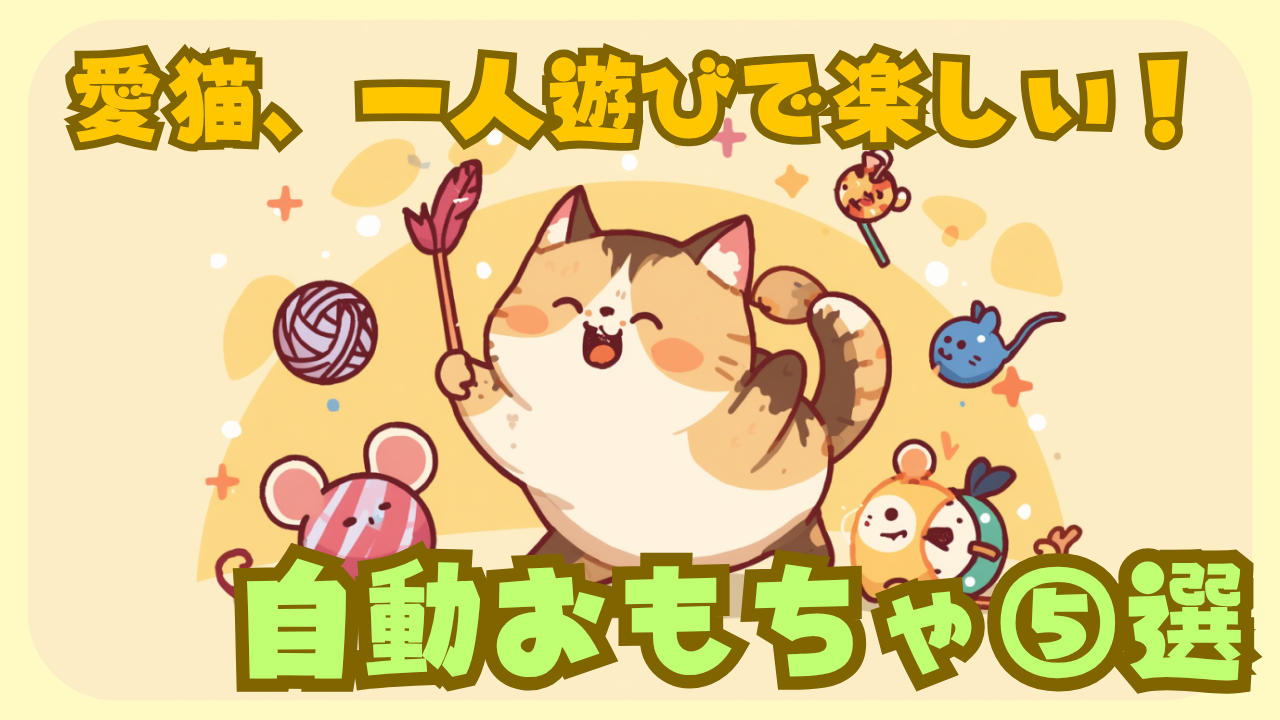
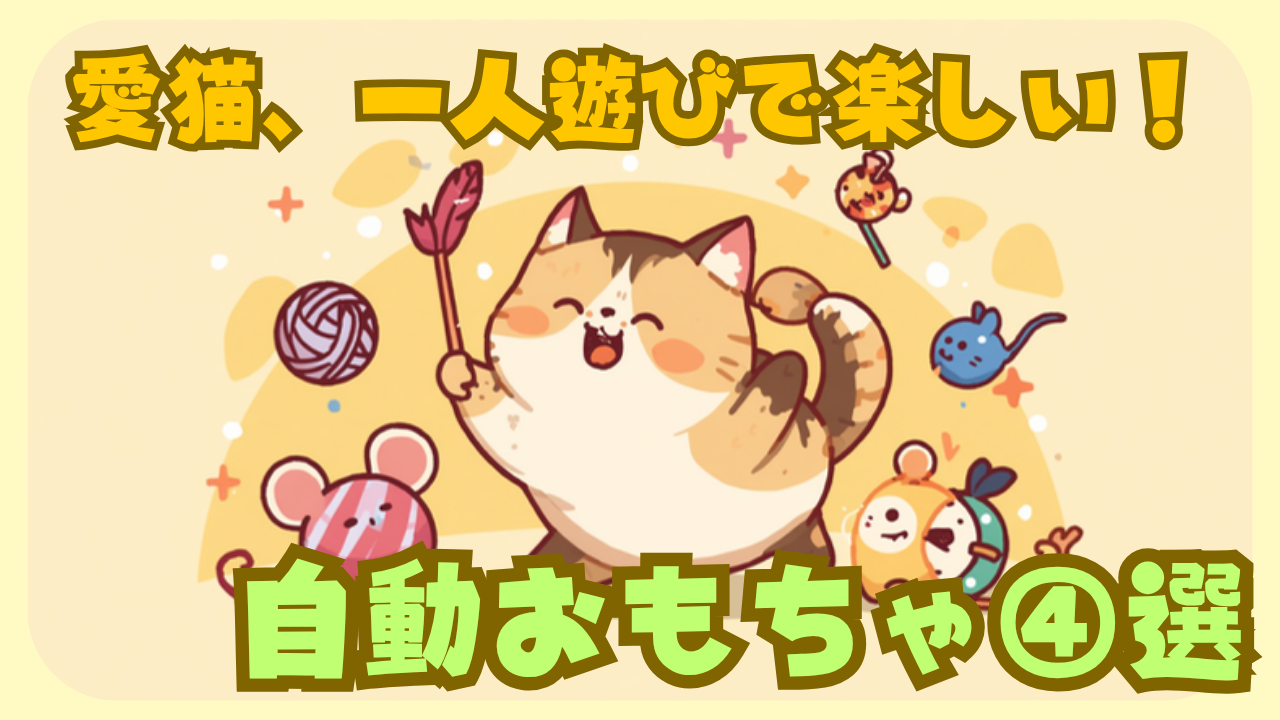
#2おもちゃ記事をリライト（5選→4選・a_id修正・うちの猫フィルター追加）
- アフィリのa_idが全てケガネコだったのでズボラ猫に差し替え
- 掲載していた5商品のうち3つが消滅／別商品化していたため入れ替え
  ・BENTOPAL P33 → 電池式のP02しか無く、①猫壱と★が重複するため章ごと削除
  ・吊り下げ式 → 自動レーザーポインターに変更
  ・自動UFO → DEER-AFFLUX に変更
- 5選→4選に変更（記事内7箇所＋他記事のリンク文言6箇所）
- 「うちの猫フィルター」を全商品に追加（吹き出し4個・キャラ登場8回）
  ・①猫壱＝省エネのまお君向き（寝たまま遊べる）
  ・②UFO＝走るらびちゃん向きだが廊下の水飲み場が障害物
  ・③レーザー＝足を怪我中のまお君には向かないと正直に明記
  ・④にゃんクルル＝自動給餌器と同じ「勝手に止まる」信頼
- まとめを「うちが買うなら④のにゃんクルル」で断言する形に変更
- 冒頭を「2匹のうち1匹」→「まお君」に修正
- 内部リンクを2本追加（#30水分補給・#5自動給餌器）
- アイキャッチを4選版に差し替え

diff --git a/content/posts/cat-ignored-toys.md b/content/posts/cat-ignored-toys.md
@@ -121,7 +121,7 @@ cover:
 
 ズボラ猫飼いが実際に使ってよかった一人遊びおもちゃはこちら👇
 
-👉 [猫の一人遊びおもちゃ5選【留守中も退屈させない自動グッズ】](/posts/cat-solo-play-toys/)
+👉 [猫の一人遊びおもちゃ4選【留守中も退屈させない自動グッズ】](/posts/cat-solo-play-toys/)
 
 ---
 
@@ -162,7 +162,7 @@ cover:
 
 ズボラ目線でまとめたおすすめはこちら👇
 
-👉 [猫の一人遊びおもちゃ5選【留守中も退屈させない自動グッズ】](/posts/cat-solo-play-toys/)
+👉 [猫の一人遊びおもちゃ4選【留守中も退屈させない自動グッズ】](/posts/cat-solo-play-toys/)
 
 ---
 

diff --git a/content/posts/cat-preparing-checklist.md b/content/posts/cat-preparing-checklist.md
@@ -127,7 +127,7 @@ cover:
 
 一人暮らしで留守が多い場合、猫が一人で遊べるおもちゃがあると運動不足・ストレス対策になります。
 
-👉 [愛猫、一人遊びで楽しい！【自動おもちゃ5選】](/posts/cat-solo-play-toys/)
+👉 [愛猫、一人遊びで楽しい！【自動おもちゃ4選】](/posts/cat-solo-play-toys/)
 
 「買ったのに全然遊ばない…」という失敗を避けたい方はこちらも先に読んでみて👇
 

diff --git a/content/posts/cat-play-guilty.md b/content/posts/cat-play-guilty.md
@@ -58,7 +58,7 @@ cover:
 
 どんなおもちゃを選ぶかはここにまとめてます↓
 
-👉 [猫のおもちゃ反応しない問題を解決！一人遊びできる自動おもちゃ5選](/posts/cat-solo-play-toys/)
+👉 [猫のおもちゃ反応しない問題を解決！一人遊びできる自動おもちゃ4選](/posts/cat-solo-play-toys/)
 
 ---
 
